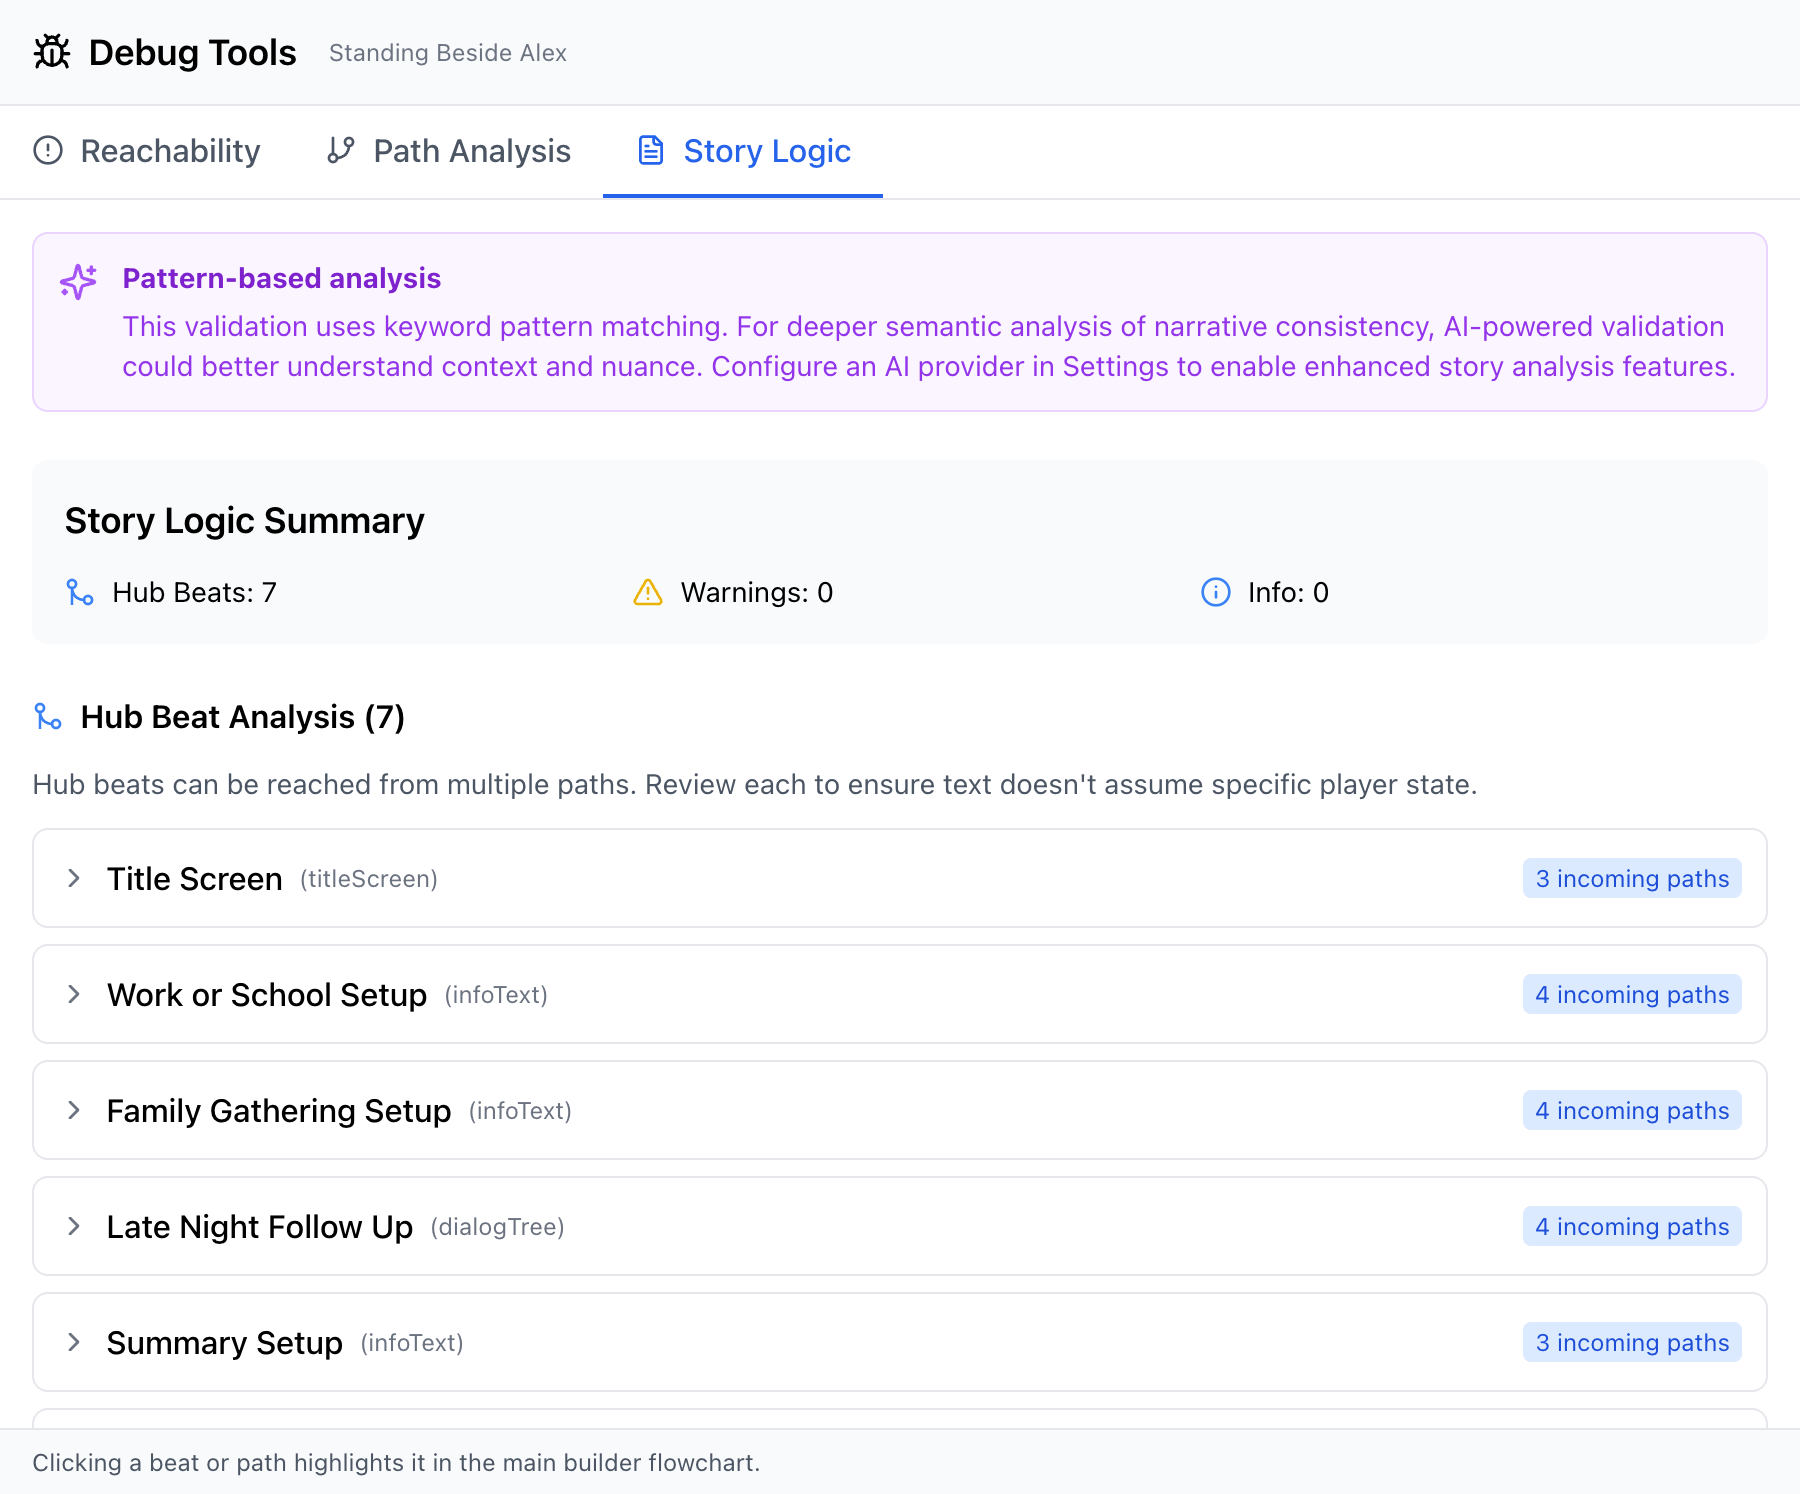
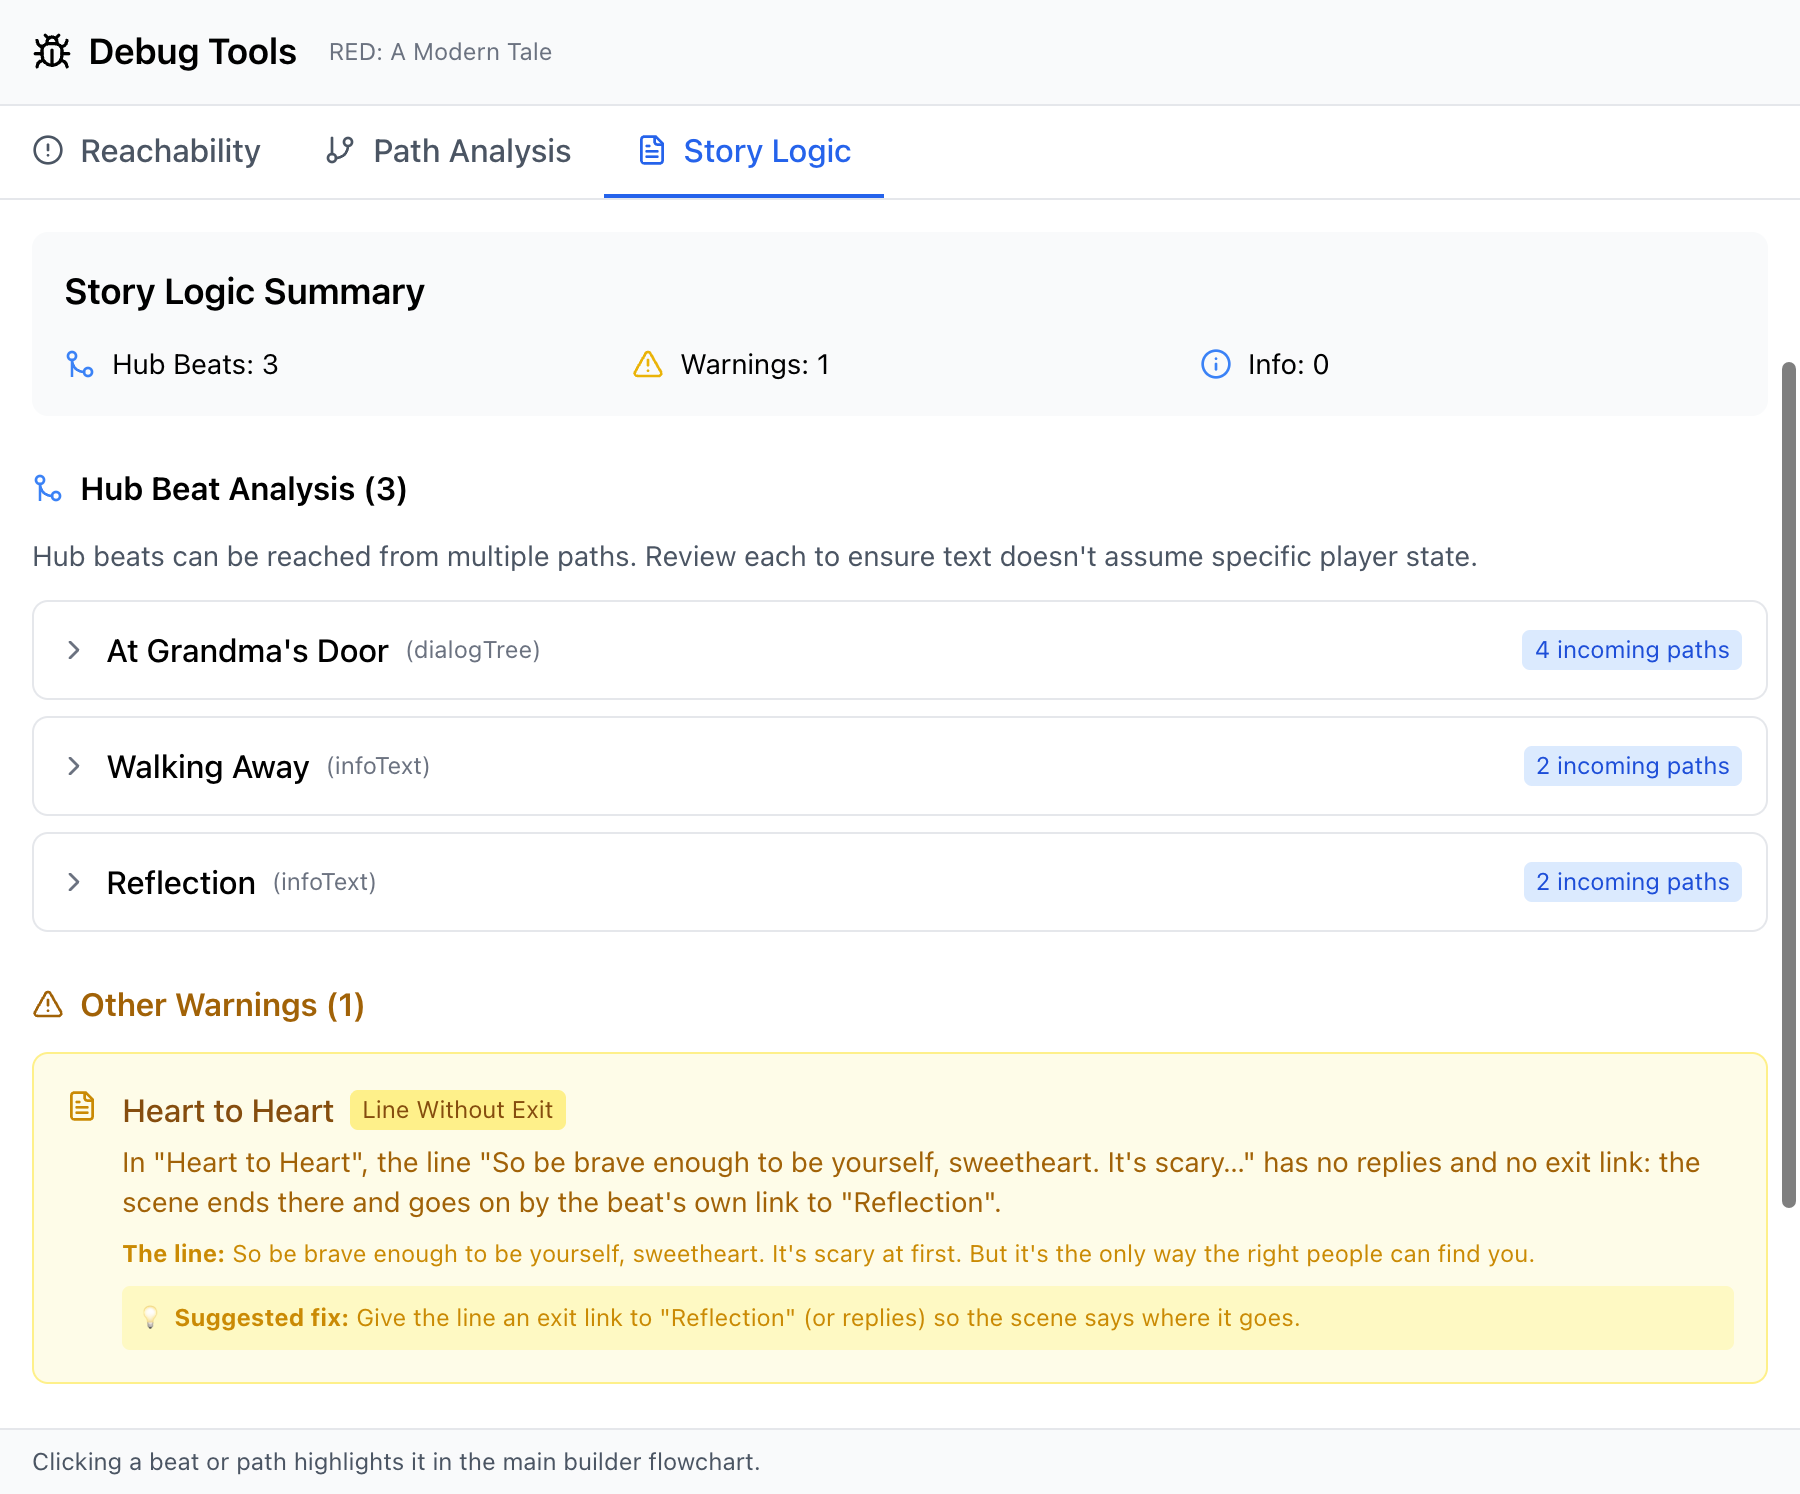
docs: Lock position explained; Story Logic screenshot shows a Line Without Exit warning
- User Guide: 'Button Positions on a Fixed Canvas: Lock position'
- Screenshot 33 retaken (Red Riding Hood copy with Grandma's line without exit)
- Story Logic card labels the quoted line 'The line:'; legend explains the category

Claude-Session: https://claude.ai/code/session_01EaMWVTtgvmkYMRuNpb9Wym

diff --git a/packages/builder/src/components/debug/LogicValidationReport.tsx b/packages/builder/src/components/debug/LogicValidationReport.tsx
@@ -423,7 +423,7 @@ export const LogicValidationReport: React.FC<LogicValidationReportProps> = ({
                       <p className="text-sm text-yellow-700 mb-2">{issue.message}</p>
                       {issue.problematicText && (
                         <p className="text-xs text-yellow-600 mb-2">
-                          <strong>Detected patterns:</strong> {issue.problematicText}
+                          <strong>{issue.category === 'dialog_line_without_exit' ? 'The line:' : 'Detected patterns:'}</strong> {issue.problematicText}
                         </p>
                       )}
                       {issue.suggestedFix && (
@@ -478,6 +478,7 @@ export const LogicValidationReport: React.FC<LogicValidationReportProps> = ({
           <li><strong>Hub State Assumption:</strong> Hub beats (reachable from multiple paths) shouldn't assume player has gathered specific items/clues</li>
           <li><strong>Undescribed Item:</strong> Items picked up via pickProp should be described in the following beat (what does the letter say? what does the photo show?)</li>
           <li><strong>Ungated State Reference:</strong> Text referencing player state without a conditionBeat checking it first</li>
+          <li><strong>Line Without Exit:</strong> A Dialog Tree line with no replies and no exit link ends the scene the moment it appears, so players never read it: give it an exit link or replies</li>
         </ul>
       </div>
     </div>

diff --git a/docs/USER_GUIDE.md b/docs/USER_GUIDE.md
@@ -2251,6 +2251,19 @@ Each character placement includes:
    - Text box styling
    - Position and size
 
+### Button Positions on a Fixed Canvas: Lock position
+
+On a fixed canvas, ASAPS keeps buttons readable when the story plays (in the Preview and in exported stories alike):
+
+- A button that would overlap the text box moves down below it.
+- Buttons that would overlap each other are spaced apart.
+- Buttons whose X positions are scattered are lined up in one column.
+- If the buttons run off the bottom of the stage, they all move up together.
+
+That suits most scenes. When you want a button exactly where you put it — on top of a picture, or overlapping the text on purpose — select it and tick **Lock position** in the properties panel. A locked button never moves; the other buttons still make room around it.
+
+Lock position only appears in fixed-canvas projects (responsive layouts arrange buttons themselves), and it matters for beats such as Movement Choice and Pick Prop. **Multi Choice** buttons always stay exactly where you put them, so they never need it. **Dialog Tree** buttons form a stack under the text box instead (see [Dialog-Tree Choices](#dialog-choices-visual-editor)), so they don't show the checkbox.
+
 ### Hotspots: Invisible Click Zones
 
 Create clickable areas that don't have visible content:
@@ -3034,7 +3047,7 @@ These are advice only: nothing changes at runtime. The analysis explores the sam
 ### Story Logic
 
 ![Debug Tools — Story Logic tab](images/33-debug-story-logic.png)
-*The Story Logic tab, surfacing hub beats reachable from many paths.*
+*The Story Logic tab: hub beats reachable from several paths, and a Line Without Exit warning: Grandma's last line has no replies and no exit link, with the fix it suggests.*
 
 Pattern-based validation that runs on the project's structure:
 - **Hub Beat Analysis** — beats reachable from multiple paths. Each hub gets a card with its incoming-path count and a reminder to check that the text doesn't assume a specific player state.

diff --git a/Progress.md b/Progress.md
@@ -1,5 +1,16 @@
 # ASAPS Modern - Progress Log
 
+## Unreleased (since v0.9.122, 2026-10-19)
+
+### Overview
+- **User Guide:** new section *Button Positions on a Fixed Canvas: Lock position* (what the player rearranges — push below text, spacing, column alignment, shift up on overflow — and that Lock position keeps a button put; which beat types it applies to). Screenshot 33 (Debug → Story Logic) retaken on a Red Riding Hood copy with a Line Without Exit warning.
+- **Story Logic panel:** a Line Without Exit card labels the quoted line "The line:" (it said "Detected patterns:", the keyword checks' label), and the legend explains the new category.
+- The panel's note promising AI-powered story analysis stays: the feature is planned (decision 2026-10-19).
+
+**Files modified:** docs/USER_GUIDE.md, docs/images/33-debug-story-logic.png, packages/builder/src/components/debug/LogicValidationReport.tsx
+
+---
+
 ## 2026-10-19: Names in colour, buttons that stay put (v0.9.122)
 
 ### Overview
